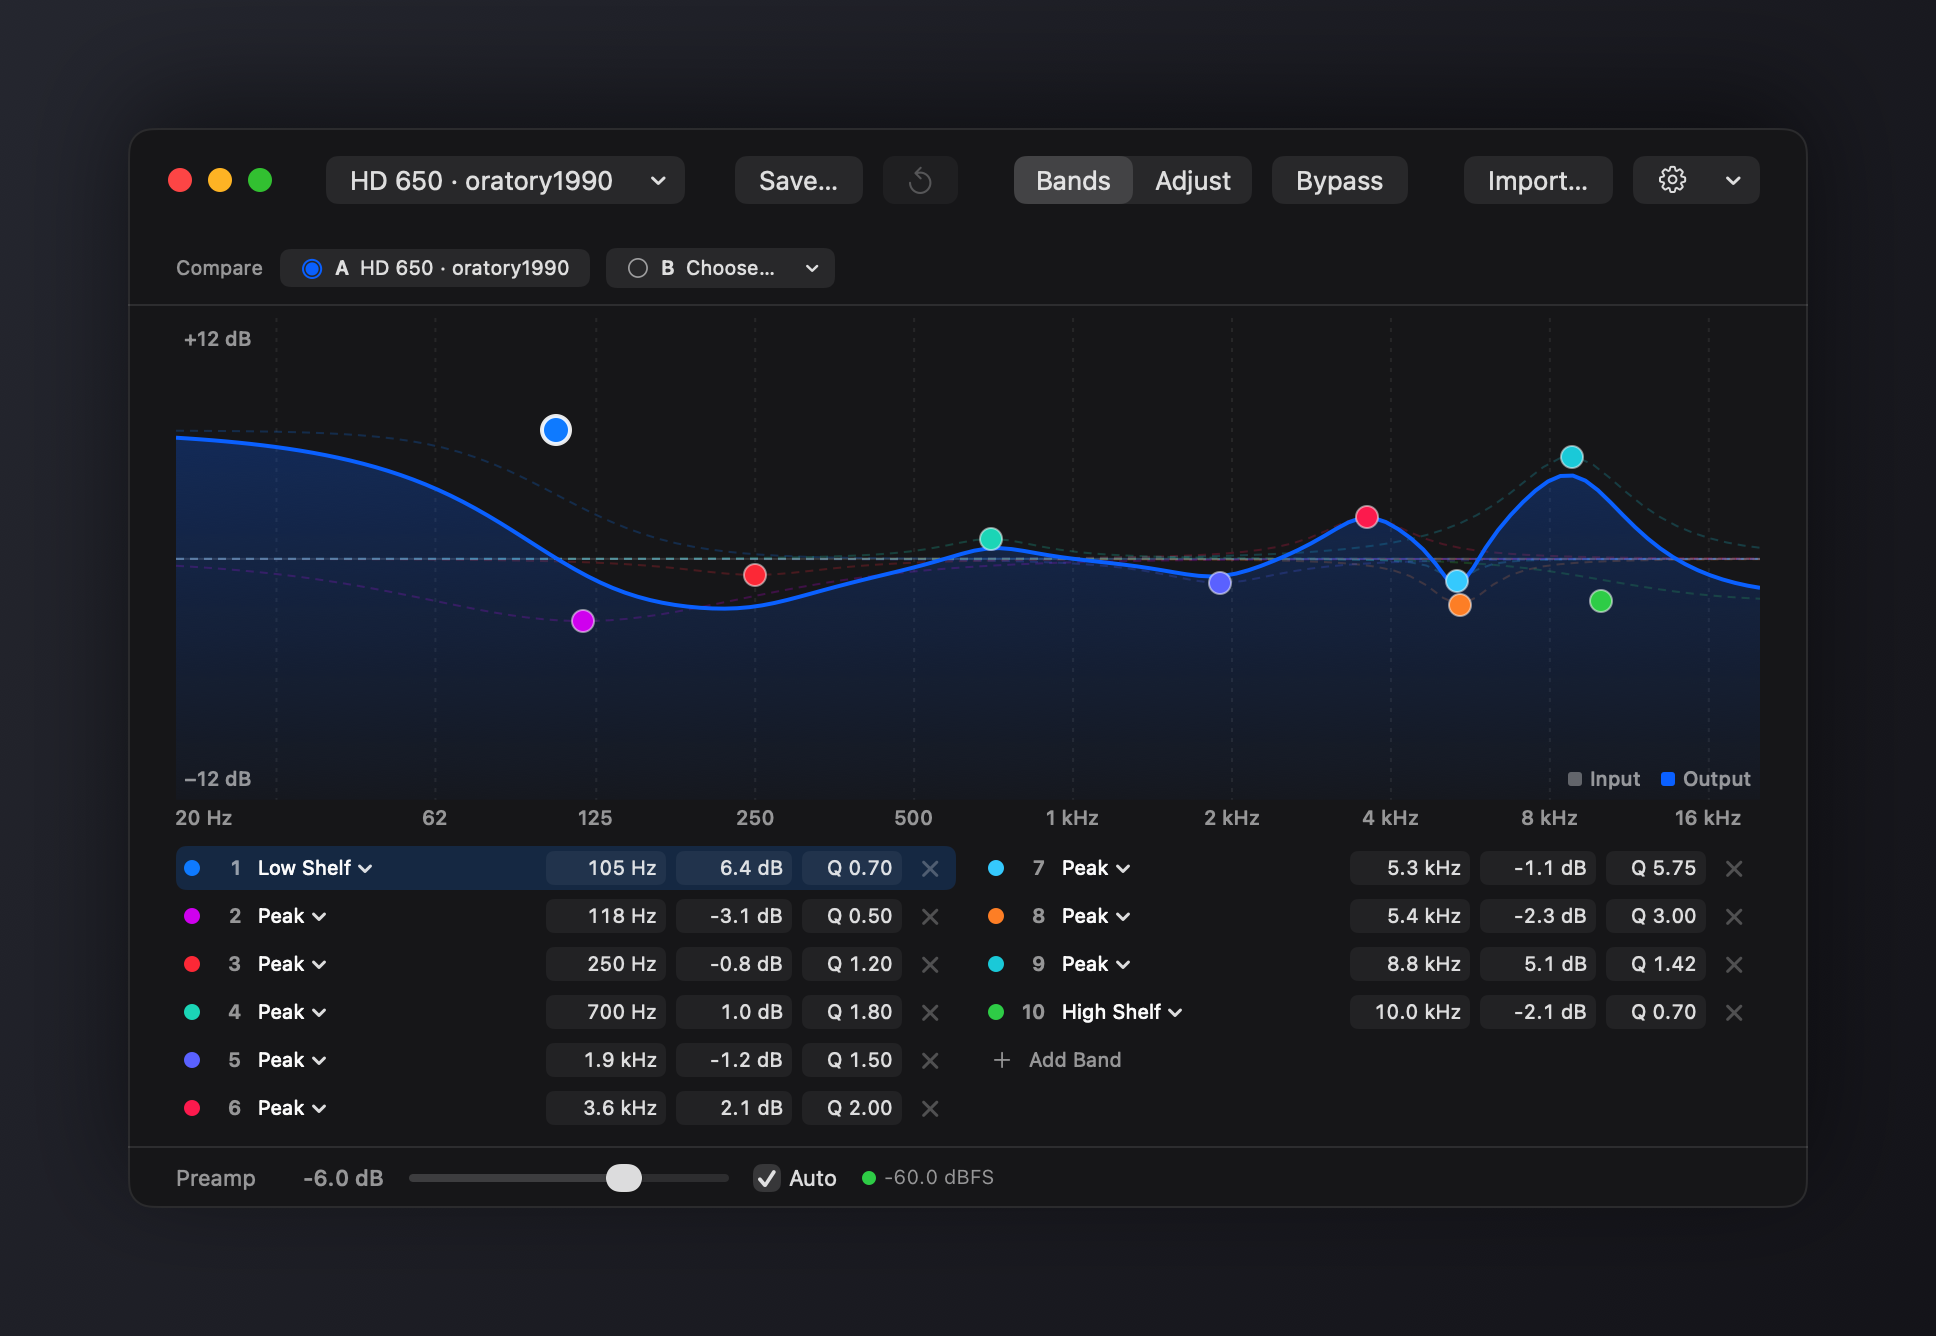
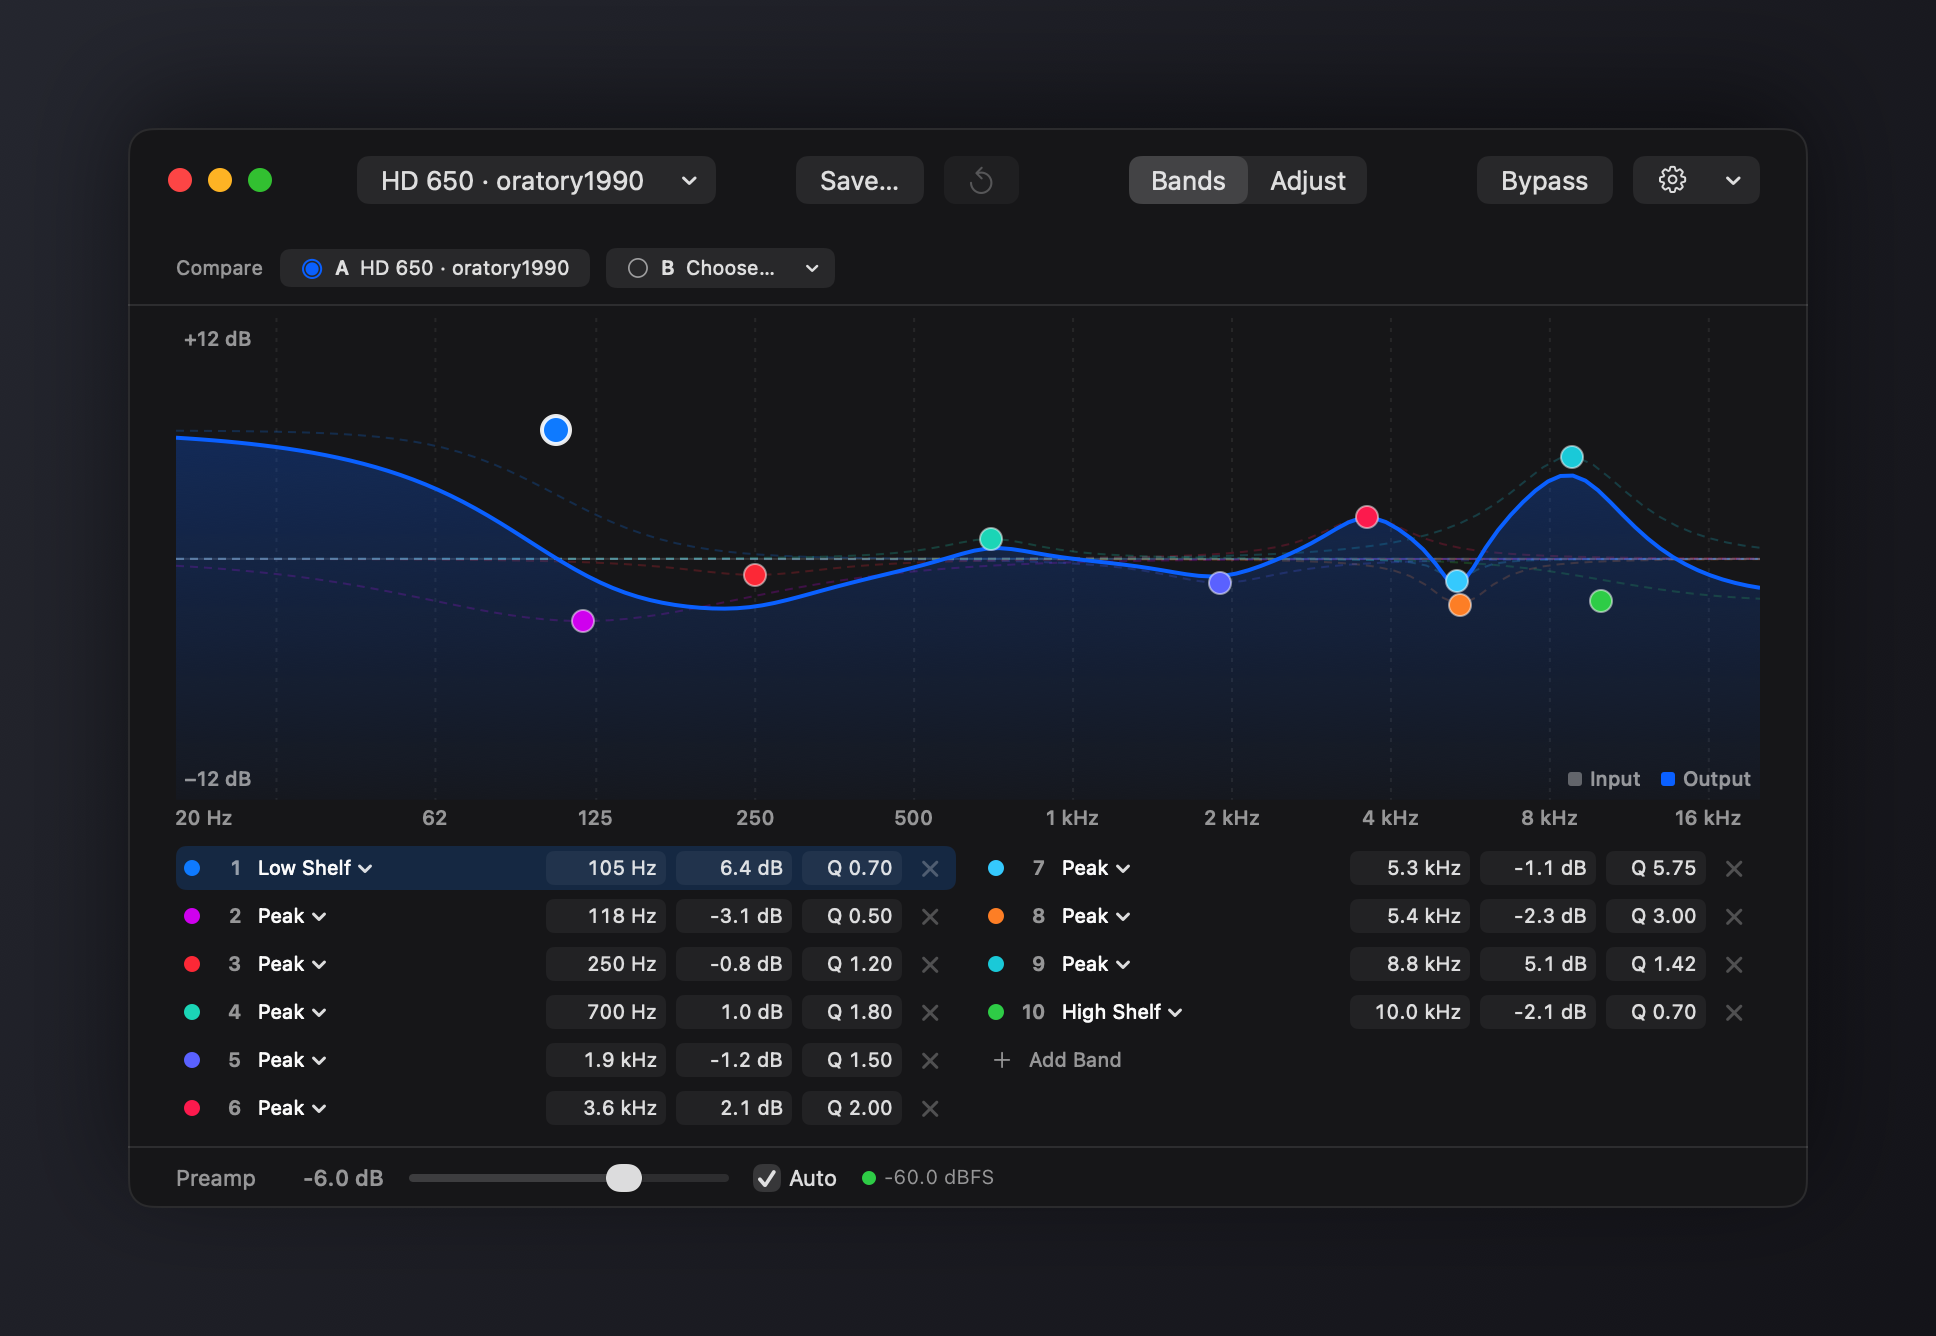
fix: quieter editor toolbar (#46)
The Bands / Adjust switch stands alone in the toolbar's centre, Bypass
sits beside the gear, and Import… moves into the preset menu after the
presets, as it already does in the Compare slot menus. Release 1.4.10.

diff --git a/Sources/OnlyEQ/UI/EditorView.swift b/Sources/OnlyEQ/UI/EditorView.swift
@@ -157,9 +157,8 @@ struct EditorView: View {
             revertButton
             Spacer()
             stripModePicker
-            bypassToggle
             Spacer()
-            importButton
+            bypassToggle
             AppGearMenu()
         }
         .padding(.leading, Self.toolbarLeadingInset)
@@ -174,12 +173,9 @@ struct EditorView: View {
             saveButton
             revertButton
         }
-        ToolbarItemGroup(placement: .principal) {
-            stripModePicker
-            bypassToggle
-        }
+        ToolbarItem(placement: .principal) { stripModePicker }
         ToolbarItemGroup(placement: .primaryAction) {
-            importButton
+            bypassToggle
             AppGearMenu()
         }
     }
@@ -202,6 +198,10 @@ struct EditorView: View {
                 Button(preset.name) {
                     state.recordingUndo("Switch Preset", undoManager) { state.apply(preset) }
                 }
+            }
+            Divider()
+            Button("Import…") {
+                importPresentation = ImportPresentation(profileSuggestion: nil)
             }
             if let stored = state.savedPreset, state.store.customPresets.contains(stored) {
                 Divider()
@@ -242,13 +242,6 @@ struct EditorView: View {
             .toggleStyle(.button)
             .keyboardShortcut("b", modifiers: .command)
             .help("Hear the unprocessed signal without changing the preset (⌘B)")
-    }
-
-    private var importButton: some View {
-        Button("Import…") {
-            importPresentation = ImportPresentation(profileSuggestion: nil)
-        }
-        .help("Import a preset from a file, text, or the online databases")
     }
 
     // MARK: - Graph

diff --git a/DESIGN.md b/DESIGN.md
@@ -218,7 +218,7 @@ The palette is macOS itself; the tokens above are dark-appearance snapshots of d
 
 The popover is one `VStack` inside 14 pt side padding, 360 pt wide and about 350 pt tall, with a spacing rhythm of tight inside a group and generous between groups: header (badge, name, caption latency, switch), 10 pt, the plot row (the well at a fixed 150 pt with the compact axis labels 4 pt beneath, then 10 pt and the 30 pt fader column whose track spans the well's height and whose readout sits on the axis line), 8 pt, the listening row (Bypass and Crossfeed as small text capsule toggles leading, the output device as a small text capsule pull-down trailing), 18 pt, the preset row in semibold with its "Use automatically on <device>" small checkbox, 14 pt, then a hairline and the footer (a text-only bordered Open Equalizer… and the gear menu with its system indicator) 10 pt below it. The preset row is a 22 pt secondary symbol (`waveform.path`), an 8 pt gap, a borderless menu, and its detail indented 30 pt underneath. The popover is sized once to its fitting size when shown, so the panel never resizes while open. It grows only with the system text size.
 
-The editor window opens at 840 by 560 pt with a minimum of 720 by 480. Its unified 52 pt title bar carries real toolbar items (preset menu, Save…, and Revert as an `arrow.counterclockwise` glyph on the left; the Bands / Adjust segmented control and Bypass in the centre; a text-only Import… and the gear on the right) and hides the window title. The verbs are words; the one glyph is the undo arrow. Below it: the Compare row with 8 pt above and below, a divider, the graph filling the remaining height with 24 pt side margins, a 158 pt band list of 22 pt rows in two columns (three from 1056 pt wide), filled top to bottom then left to right and ordered low to high in frequency so it reads like the graph (the order holds still for the length of a node drag); ten bands and the Add Band row fit without scrolling, longer presets scroll vertically. The toolbar's Bands / Adjust segmented control swaps the list for the Adjust pane of the same height: Bass, Treble, Tilt, and Strength sliders with a Reset button, the simple way to tune a profile. Then a divider and the Preamp bar. Everything in the editor shares the 24 pt horizontal margin.
+The editor window opens at 840 by 560 pt with a minimum of 720 by 480. Its unified 52 pt title bar carries real toolbar items (preset menu, Save…, and Revert as an `arrow.counterclockwise` glyph on the left; the Bands / Adjust segmented control alone in the centre; Bypass and the gear on the right) and hides the window title. Import… lives in the preset menu, after the presets. The verbs are words; the one glyph is the undo arrow. Below it: the Compare row with 8 pt above and below, a divider, the graph filling the remaining height with 24 pt side margins, a 158 pt band list of 22 pt rows in two columns (three from 1056 pt wide), filled top to bottom then left to right and ordered low to high in frequency so it reads like the graph (the order holds still for the length of a node drag); ten bands and the Add Band row fit without scrolling, longer presets scroll vertically. The toolbar's Bands / Adjust segmented control swaps the list for the Adjust pane of the same height: Bass, Treble, Tilt, and Strength sliders with a Reset button, the simple way to tune a profile. Then a divider and the Preamp bar. Everything in the editor shares the 24 pt horizontal margin.
 
 Settings is 560 pt wide with toolbar-style tabs (General, Devices, Sound, Shortcuts, Advanced, each an SF Symbol); each page is one grouped `Form` and the window resizes to the page. Onboarding is 560 pt wide and at least 460 tall: content, a divider, and a footer with Back on the left and Continue or Start Listening on the right at the large control size with 16 pt padding. The import sheet is 560 pt wide and at least 470 tall: a segmented picker at 12 pt padding, a divider, the tab body at 16 pt padding, a divider, and Cancel and Apply at 12 pt padding.
 

diff --git a/release-notes/1.4.10.md b/release-notes/1.4.10.md
@@ -1,0 +1,3 @@
+# OnlyEQ 1.4.10
+
+- A quieter editor toolbar: the Bands / Adjust switch stands alone in the centre, Bypass sits beside the gear, and Import… moves into the preset menu.
